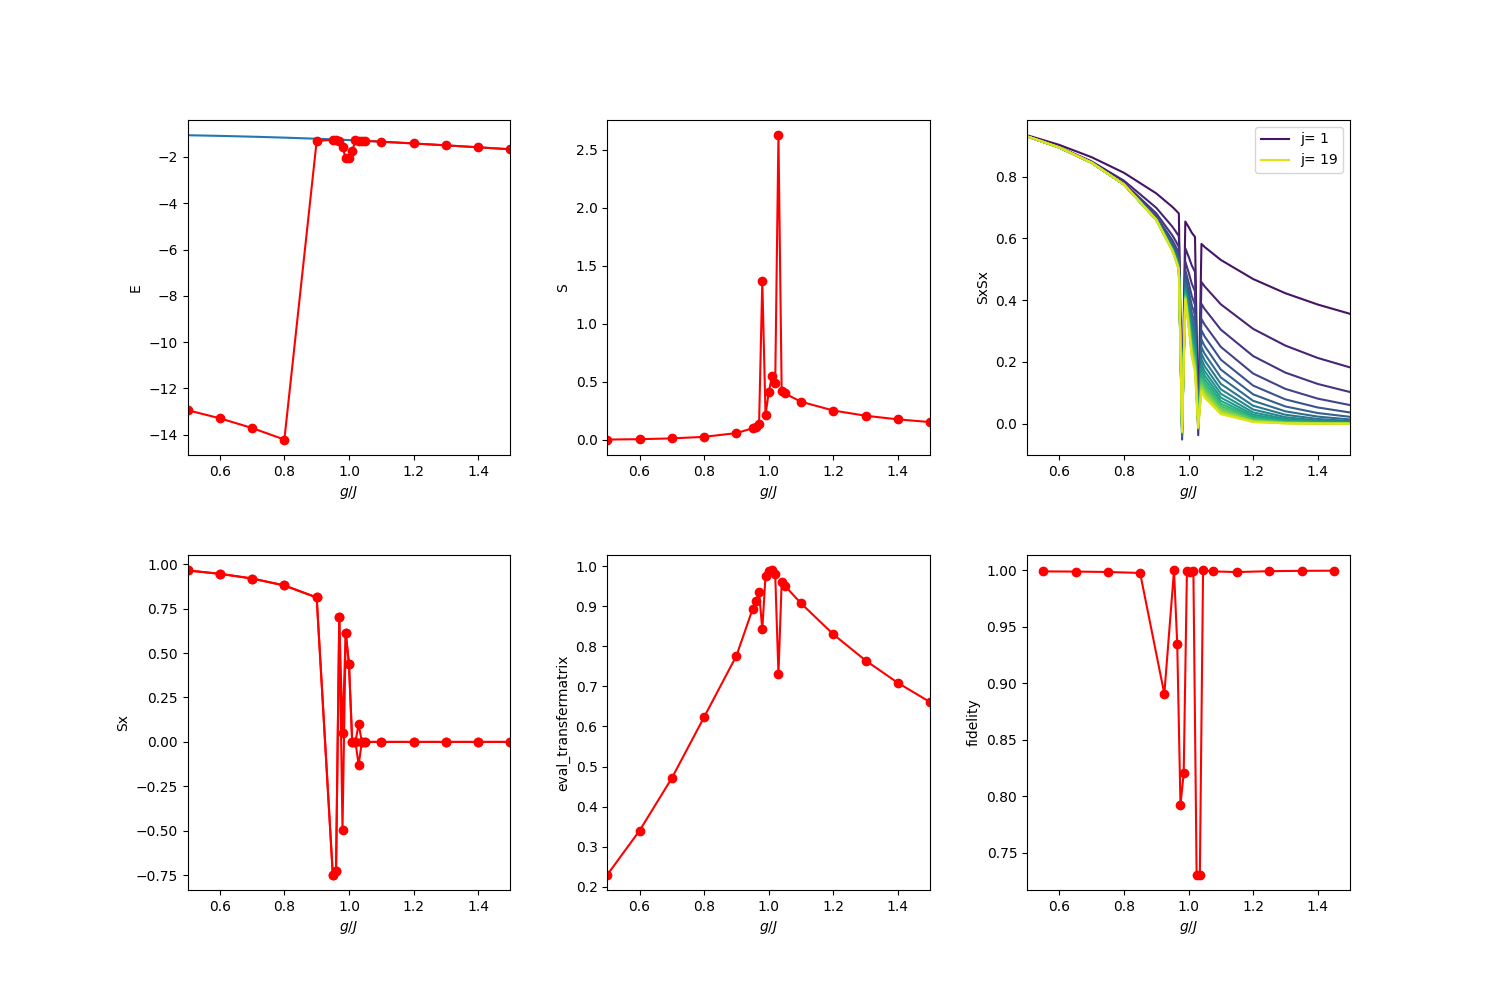
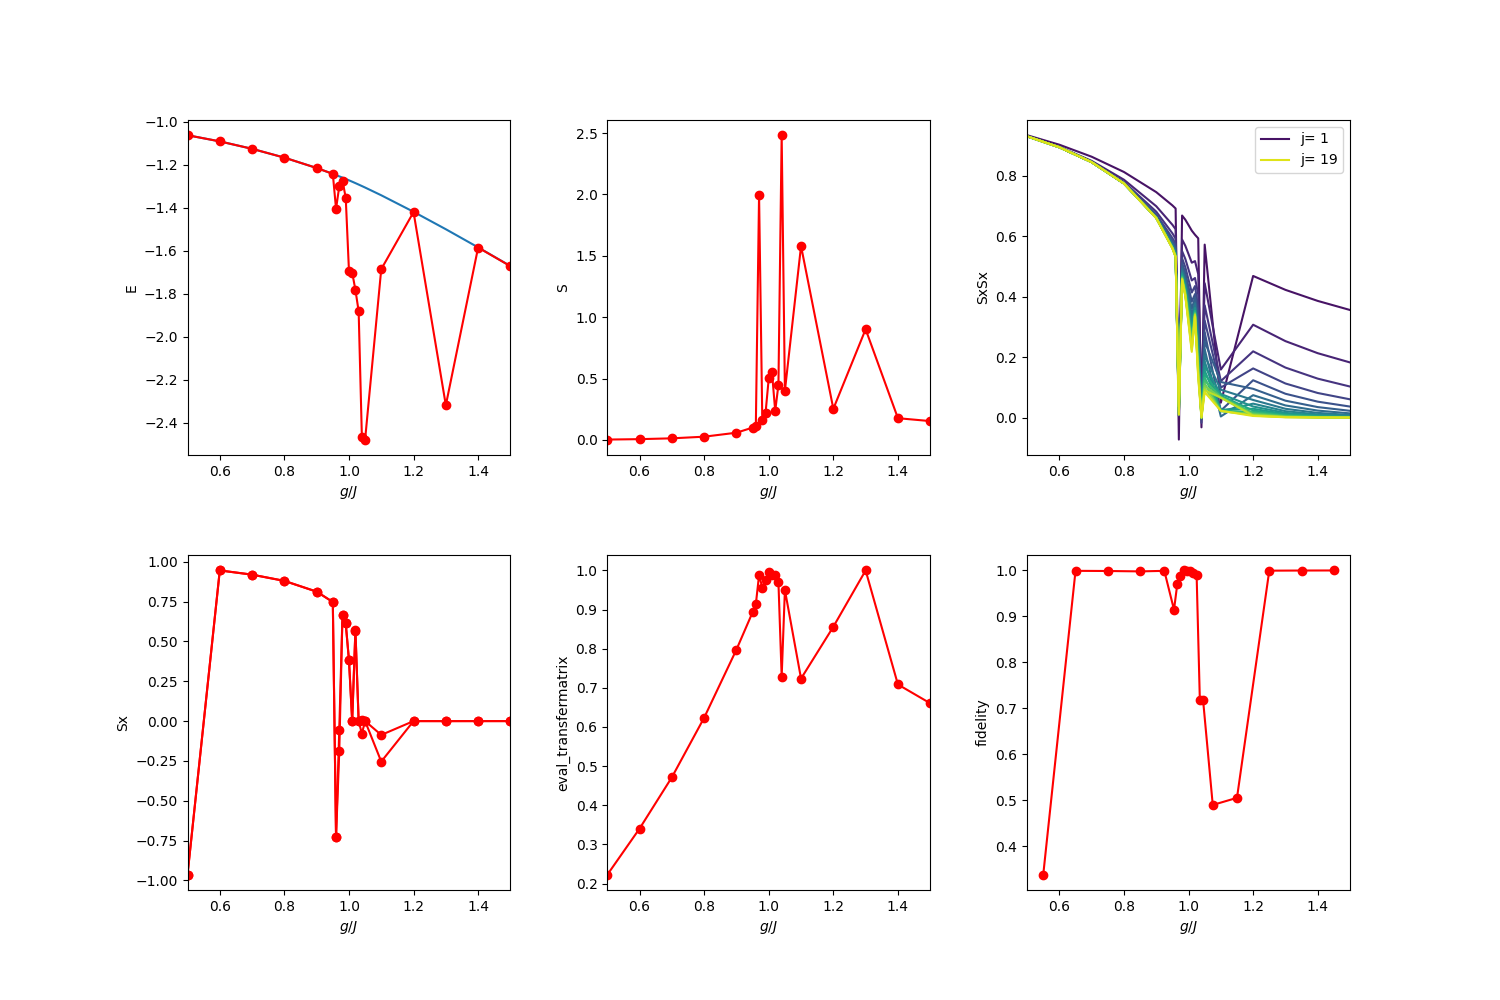
Your commit message

diff --git a/tfi_phase_transition.py b/tfi_phase_transition.py
@@ -136,7 +136,7 @@ def run_infinite(gs):
         'start_env': 5,
         'max_E_err': 0.0001,
         'max_S_err': 0.0001,
-        'max_sweeps': 100,  # NOTE: this is not enough to fully converge at the critical point!
+        'max_sweeps': 150,  # NOTE: this is not enough to fully converge at the critical point!
         'mixer': False
     }
 
@@ -257,7 +257,7 @@ if __name__ == "__main__":
     import pickle
     import os.path
     
-    gs = sorted(set(np.linspace(0.5, 1.5, 11)).union(set(np.linspace(0.95, 1.05, 11))))[::-1]
+    gs = sorted(set(np.linspace(0.5, 1.5, 11)).union(set(np.linspace(0.95, 1.05, 11))))#[::-1]
     print(gs)
     #gs=np.linspace(1.1,1.7,10)
     #gs=np.linspace(0.5,1.2,10)[::-1]

diff --git a/examples/tfi_exact.py b/examples/tfi_exact.py
@@ -63,8 +63,8 @@ def infinite_gs_energy(J, g):
     E0_exact = -g / (J * 2. * np.pi) * scipy.integrate.quad(f, -np.pi, np.pi, args=(J / g, ))[0]
     return E0_exact
 
-L=15
-J=1
-g=1
-E=finite_gs_energy(L, J, g)
-print(E)
+#L=15
+#J=1
+#g=1
+#E=finite_gs_energy(L, J, g)
+#print(E)
